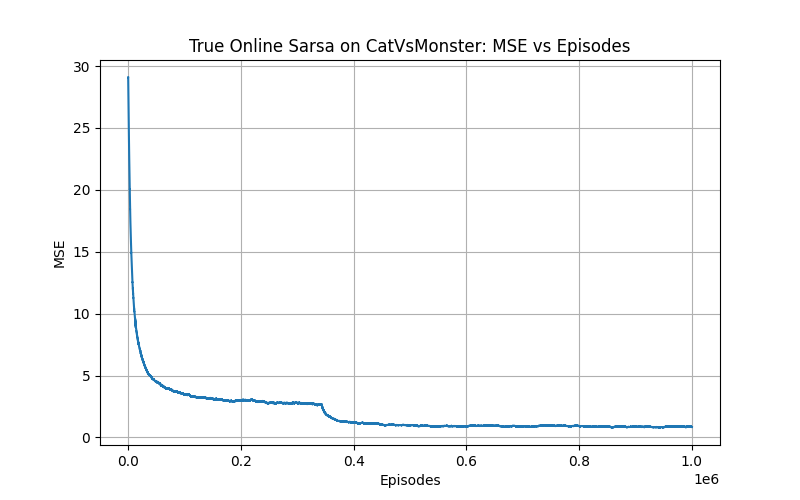
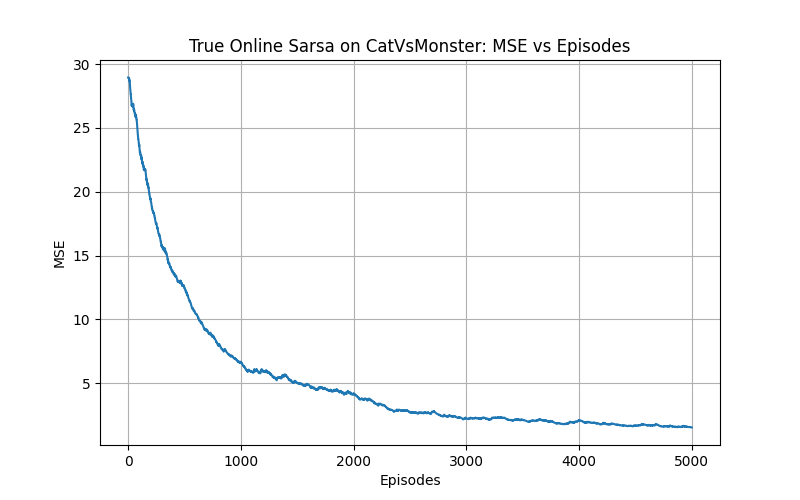
Output graphs

diff --git a/prioritized_sweeping_mwm.py b/prioritized_sweeping_mwm.py
@@ -4,11 +4,11 @@ import matplotlib.pyplot as plt
 from mazemdp import MazeWorldMDP
 
 class PrioritizedSweepingMaze:
-    def __init__(self, mdp, gamma=0.99, theta=1e-5, max_iterations=1000):
+    def __init__(self, mdp, gamma=0.99, theta=1e-5):#, max_iterations=1000):
         self.mdp = mdp
         self.gamma = gamma
         self.theta = theta
-        self.max_iterations = max_iterations
+        # self.max_iterations = max_iterations
         self.actions = self.mdp.actions
 
         self.V = {}
@@ -127,25 +127,43 @@ class PrioritizedSweepingMaze:
 
 if __name__ == "__main__":
     mdp = MazeWorldMDP(gamma=0.9)
-    agent = PrioritizedSweepingMaze(mdp, gamma=mdp.gamma, theta=1e-9, max_iterations=200)
 
-    mse_values = []
-    iterations = 50
-    updates_per_iter = 10
+    theta = 0.01
+    updates_per_sweeps = [5, 10, 15, 20] #15 best
 
-    for i in range(iterations):
-        agent.priority_sweeping(updates=updates_per_iter)
-        mse = agent.compute_mse()
-        mse_values.append(mse)
+    results = {}  
 
-    agent.print_values()
-    final_policy = agent.derive_policy()
-    agent.print_policy(final_policy)
-
-    plt.figure(figsize=(8,5))
-    plt.plot(range(1, iterations+1), mse_values, marker='o')
+    for updates_per_sweep in updates_per_sweeps:
+        print(f"\nTesting with theta={theta}")
+        agent = PrioritizedSweepingMaze(mdp, gamma=mdp.gamma, theta=theta)
+        
+        mse_values = []
+        iterations = 25  # Number of sweeps
+        
+        for i in range(iterations):
+            agent.priority_sweeping(updates=updates_per_sweep)
+            mse = agent.compute_mse()
+            mse_values.append(mse)
+        
+        # Store the results
+        results[updates_per_sweep] = mse_values
+        
+        # Print final values and policy
+        print("Final Values:")
+        agent.print_values()
+        print("Final Policy:")
+        final_policy = agent.derive_policy()
+        agent.print_policy(final_policy)
+    
+    # Plot the results
+    plt.figure(figsize=(10, 6))
+    for updates_per_sweep, mse_values in results.items():
+        plt.plot(range(1, iterations+1), mse_values, marker='o', label=f"Updates per sweep={updates_per_sweep}")
+    
     plt.xlabel("Iteration")
     plt.ylabel("MSE")
-    plt.title("Prioritized Sweeping Learning Curve (MSE vs Iterations)")
+    plt.title("Prioritized Sweeping Learning Curve (MSE vs Iterations) for Different θ")
+    plt.legend()
     plt.grid(True)
     plt.show()
+

diff --git a/prioritized_sweeping_gw.py b/prioritized_sweeping_gw.py
@@ -122,27 +122,61 @@ class PrioritizedSweepingAgent:
             print(" ".join(row_str))
 
 
+# if __name__ == "__main__":
+#     mdp = GridWorldMDP(gamma=0.9)
+#     agent = PrioritizedSweepingAgent(mdp, theta=1e-2, max_iterations=2000)
+
+#     mse_values = []
+#     iterations = 20
+#     updates_per_iter = 20
+
+#     for i in range(iterations):
+#         agent.priority_sweeping(updates=updates_per_iter)
+#         mse = agent.compute_mse()
+#         mse_values.append(mse)
+
+#     agent.print_values()
+#     final_policy = agent.derive_policy()
+#     agent.print_policy(final_policy)
+
+#     plt.figure(figsize=(8,5))
+#     plt.plot(range(1, iterations+1), mse_values, marker='o')
+#     plt.xlabel("Iteration")
+#     plt.ylabel("MSE")
+#     plt.title("Prioritized Sweeping Learning Curve (MSE vs Iterations)")
+#     plt.grid(True)
+#     plt.show()
+
+
 if __name__ == "__main__":
     mdp = GridWorldMDP(gamma=0.9)
-    agent = PrioritizedSweepingAgent(mdp, theta=1e-9, max_iterations=2000)
 
-    mse_values = []
+    # Define theta values to test
+    theta_values = [1, 5e-1, 1e-2]
     iterations = 20
     updates_per_iter = 20
 
-    for i in range(iterations):
-        agent.priority_sweeping(updates=updates_per_iter)
-        mse = agent.compute_mse()
-        mse_values.append(mse)
+    # Plot setup
+    plt.figure(figsize=(10, 6))
+    
+    for theta in theta_values:
+        # Create an agent with the current theta
+        agent = PrioritizedSweepingAgent(mdp, theta=theta, max_iterations=2000)
+        mse_values = []
 
-    agent.print_values()
-    final_policy = agent.derive_policy()
-    agent.print_policy(final_policy)
+        for i in range(iterations):
+            agent.priority_sweeping(updates=updates_per_iter)
+            mse = agent.compute_mse()
+            mse_values.append(mse)
 
-    plt.figure(figsize=(8,5))
-    plt.plot(range(1, iterations+1), mse_values, marker='o')
+        # Plot MSE values for the current theta
+        plt.plot(range(1, iterations + 1), mse_values, label=f"Theta = {theta:.0e}", marker='o')
+
+    # Final plot adjustments
     plt.xlabel("Iteration")
     plt.ylabel("MSE")
     plt.title("Prioritized Sweeping Learning Curve (MSE vs Iterations)")
+    plt.legend()
     plt.grid(True)
     plt.show()
+

diff --git a/prioritized_sweeping_cvm.py b/prioritized_sweeping_cvm.py
@@ -5,10 +5,10 @@ from catvsmonstermdp import CatVsMonster
 import matplotlib.pyplot as plt
 
 class PrioritizedSweepingAgent:
-    def __init__(self, env: CatVsMonster, theta=1e-6, max_iterations=1000):
+    def __init__(self, env: CatVsMonster, theta=1e-6):#, max_iterations=1000):
         self.env = env
         self.theta = theta
-        self.max_iterations = max_iterations
+        # self.max_iterations = max_iterations
 
         self.states = [(r, c) for r in range(self.env.rows) for c in range(self.env.cols) if (r,c) not in self.env.furniture]
 
@@ -99,11 +99,11 @@ class PrioritizedSweepingAgent:
             if diff > self.theta:
                 heapq.heappush(pq, (-diff, s))
 
-        for _ in range(n):
+        for _ in range(n): #updates per sweep
             if not pq:
                 break
             priority, s = heapq.heappop(pq)
-            priority = -priority
+            # priority = -priority
             old_val = self.V[s]
             self.V[s] = self.compute_max_action_value(s)
             diff = abs(old_val - self.V[s])
@@ -114,8 +114,9 @@ class PrioritizedSweepingAgent:
                 old_val_p = self.V[p]
                 new_val_p = self.compute_max_action_value(p)
                 diff_p = abs(old_val_p - new_val_p)
-                if diff_p > self.theta:
+                if diff_p > self.theta: #threshold for pushing
                     heapq.heappush(pq, (-diff_p, p))
+                    
 
     def compute_mse(self):
         errors = []
@@ -182,11 +183,11 @@ class PrioritizedSweepingAgent:
 
 if __name__ == "__main__":
     env = CatVsMonster()
-    agent = PrioritizedSweepingAgent(env, theta=1e-9, max_iterations=50)
+    agent = PrioritizedSweepingAgent(env, theta=1e-2)#, max_iterations=50)
 
     mse_values = []
-    num_sweeps = 25
-    updates_per_sweep =10
+    num_sweeps = 10
+    updates_per_sweep = 15
 
     for i in range(num_sweeps):
         agent.priority_sweeping(n=updates_per_sweep)

diff --git a/trueonline_sarsa_cmv.py b/trueonline_sarsa_cmv.py
@@ -158,7 +158,7 @@ class TrueOnlineSarsaCatVsMonster:
 
 if __name__ == "__main__":
     env = CatVsMonster(gamma=0.925)
-    agent = TrueOnlineSarsaCatVsMonster(env, gamma=env.gamma, alpha=2e-4, lambd=0.9, epsilon=0.1, num_episodes=1000000)
+    agent = TrueOnlineSarsaCatVsMonster(env, gamma=env.gamma, alpha=0.005, lambd=0.9, epsilon=0.1, num_episodes=5000)
     mse_list = agent.run_true_online_sarsa()
 
     agent.print_values()
